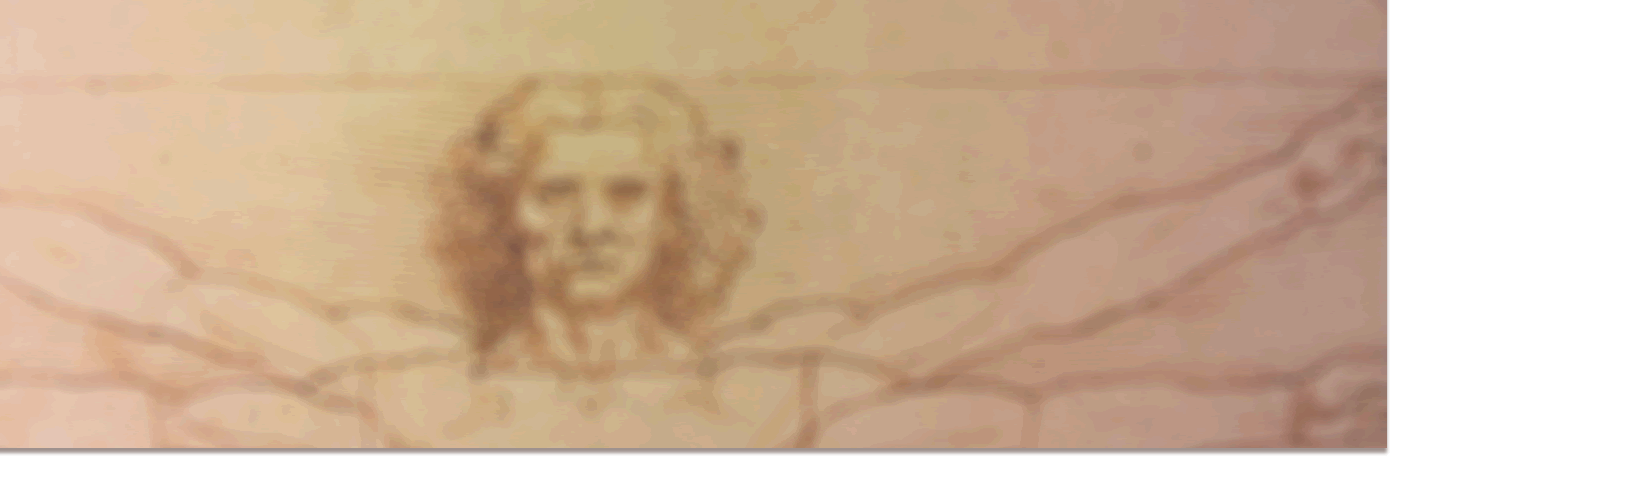
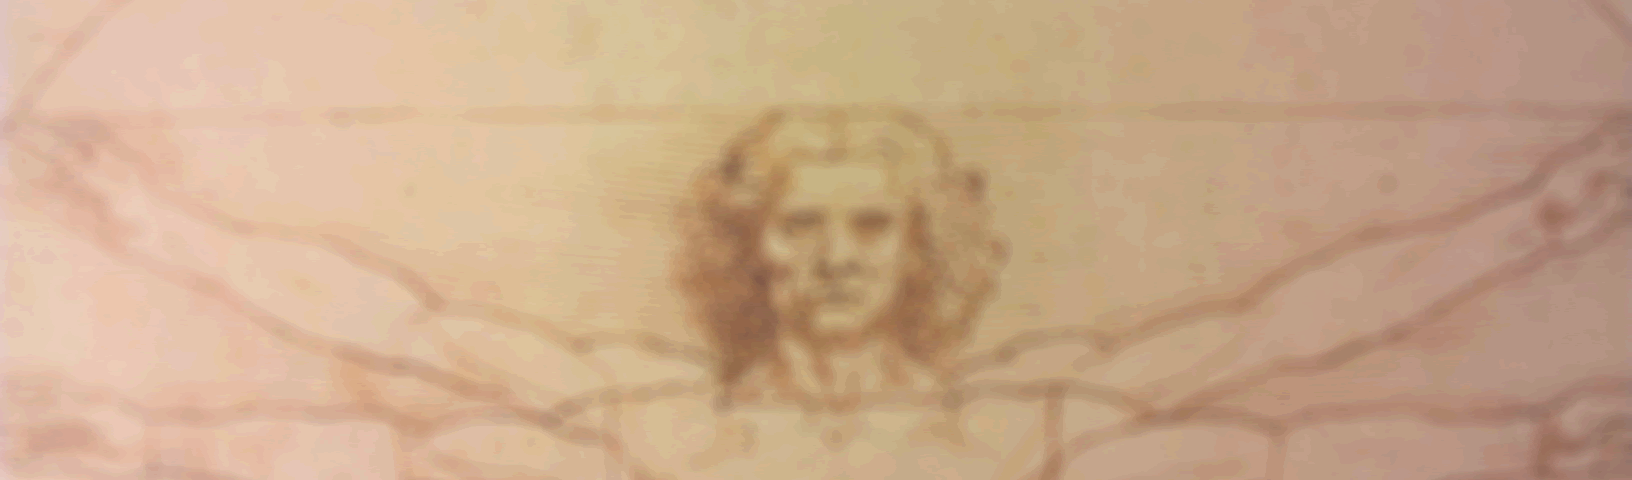
landing page styling v1 done

diff --git a/app/assets/stylesheets/layout.css.scss b/app/assets/stylesheets/layout.css.scss
@@ -54,43 +54,29 @@ header#page_header{
 }
 
 footer#page_footer {
-  background-color: #807c77;
-  border-bottom: 10px solid #4c2719;
-  color: #fff;
-  font0size: 0.7em;
-  height: 100px;
+  background: url('footer_background.png') no-repeat;
+  font-size: 16px;
+  text-align: right;
+  color: white;
+  height: 75px;
   padding: 10px 20px;
-  /* float: right; */
-
-  ul {
-    margin-left: -10px;
-    padding: 0;
-
-    li {
-      border-right: 1px solid #fef8e7;
-      display: inline;
-      margin: 0;
-      &:last-child {
-        border-right: none;
-      }
-    }
-
-  }
 }
 
 body#landing_page_body{
   max-width: 960px;
   margin: 20px 0px;
+  height: 480px;
 
+  /*
   display: -webkit-box;
   -webkit-box-pack: center;
   -webkit-box-orient: vertical;
   -webkit-box-flex: 1;
+  */
 }
 
 div#landing_page_above_fold{
-  height: auto;
-  background: url('landing_above_fold.png') no-repeat;
+  background: url('landing_above_fold.png') repeat;
 }
 
 #definition{
@@ -116,15 +102,17 @@ section#landing_page_above_fold_heading{
 }
 
 div#above_fold_container{
+  /*
   display: -webkit-box;
   -webkit-box-orient: horizontal;
   border-top: 1px solid black;
   -webkit-box-align: stretch;
+  */
 }
 
 div#what_is_geekology{
+  display: inline-block;
   padding: 5px 20px 10px 30px;
-  -webkit-box-flex: 1;
   width: 50%;
 
   font-size: 24px;
@@ -140,7 +128,95 @@ div#what_is_geekology{
 }
 
 div#social_proof{
-  border: 1px solid red;
-  -webkit-box-flex: 1;
-  width: 300px;
+  background-color: rgba(240,240,240, .5);
+  display: inline-block;
+  width: 40%;
+
+  padding: 10px;
+  margin-bottom: 25px;
+  text-align: left;
+
+  li {
+    list-style: none;
+    padding: 5px;
+  }
+}
+
+div#landing_page_below_fold {
+  background: url('landing_below_fold_1.png') repeat;
+  height: auto;
+
+  header h1 {
+    font-size: 30px;
+    padding-top: 15px;
+  }
+
+  header h2 {
+    font-weight: normal;
+    font-size: 24px;
+  }
+
+  section#landing_page_below_fold_body{
+    padding-bottom: 20px;
+  }
+}
+
+div#after_conditions {
+  background-color: rgba(240,240,240, .5);
+  width: 75%;
+  margin-left: auto;
+  margin-right: auto;
+  margin-top: 20px;
+  margin-bottom: 20px;
+  padding: 10px;
+  font-size: 21px;
+  font-style: italic;
+
+  h1 {
+    font-size: 27px;
+  }
+
+  li {
+    padding: 3px 0;
+  }
+
+  ul {
+    list-style-position: inside;
+  }
+}
+
+div#why_pain_point_exists {
+  font-size: 21px;
+}
+
+div#pain_point_question {
+  display: inline-block;
+  border: 1px solid black;
+  margin: 10px;
+  padding: 10px;
+  width: 25%;
+  text-align: right;
+  font-style: italic;
+}
+
+div#pain_point_answer {
+  display: inline-block;
+  width: 65%;
+  margin: 10px;
+  padding: 10px;
+  text-align: left;
+}
+
+div#landing_page_call_to_action {
+  background: url('landing_below_fold_2.png') repeat;
+  padding: 20px 0;
+
+  p {
+    font-size: 24px;
+    width: 45%;
+    margin-left: auto;
+    margin-right: auto;
+    padding: 10px 30px;
+    background-color: rgba(240,240,240, .5);
+  }
 }
